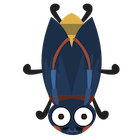
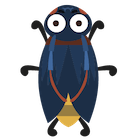
Add a play button, add bug's animation and add image

Changed region(s): [[0.1429, 0.0, 0.8571, 1.0]]

diff --git a/stage2.css b/stage2.css
@@ -1,55 +1,23 @@
 body{
     font-family: 'Open Sans', sans-serif;
 }
+.main{
+    width:960px;
+    height: 600px;
+    border: 1px solid rgb(177, 177, 177);
+    border-radius: 10px;
+    margin-left:17%;
+    margin-top:50px;
+    background-color: rgb(255, 255, 255);
+}
 a {
     text-decoration: none;
-}
-.big {
-    width: 180px;
-}
-
-.line{
-    position: relative;
-    display: block;
-    text-align: center;
-    margin-left: 0%;
-}
-
-
-.scene{
-    position: relative;
-    width: 960px;
-
-    min-height: 483px;
-    margin-bottom: 50px;
-    margin-left: 0%;
-}
-.speaker{
-    touch-action: none;
-    position: relative;
-    margin-right: 10px;
-    width: 35px;
-    height: 35px;
-    margin-bottom: -1px;
-    background-image: url(./Images/speaker.png);
-    background-size: 100%;
-    display: inline-block;
-    border-radius: 50%;
-    background-position-x: 0px;
-    background-position-y: 0px;
-}
-.string{
-    font-size: 50px;
-    margin-right: 5px;
-    margin:  -50px;
-}
-.uchiru_head card with_progress{
-    border-bottom: 1px solid rgba(150,150,150,0.29);
 }
 .uchiru_head {
     line-height: 49px;
     position: relative;
     padding: 0 20px;
+    border-bottom: 1px solid rgba(150,150,150,0.29);
 }
 .Back{
     width: 70px;
@@ -90,14 +58,18 @@ a {
     transition: left 200ms linear;
     -webkit-transition: left 200ms linear;
 }
-.main{
-    width:960px;
-    height: 600px;
-    border: 1px solid rgb(177, 177, 177);
-    border-radius: 10px;
-    margin-left:17%;
-    margin-top:50px;
-    background-color: rgb(255, 255, 255);
+.scene{
+    position: relative;
+    width: 960px;
+    min-height: 483px;
+    margin-bottom: 50px;
+    margin-left: 0%;
+}
+.line{
+    position: relative;
+    display: block;
+    text-align: center;
+    margin-left: 0%;
 }
 .bg-bug{
     width: 220px;
@@ -112,13 +84,18 @@ a {
 }
 .bug{
     width: 140px;
-    height: 140px;
     background-image: url('./Images/68.png');
-    position: relative;
+    position: absolute;
     z-index: 3;
-    left: 0px;
+    bottom: 0px;
+    left: 30px;
     display: inline-block;
-    transform: rotate(180deg);
+    animation-name: move;
+    animation-timing-function: linear;
+    animation-fill-mode: forwards;
+    animation-delay: 0s;
+    animation-iteration-count: 1;
+    animation-duration: 1.5s;
 }
 .question{
     position: absolute;
@@ -128,27 +105,25 @@ a {
     text-align: left;
     line-height: 40px;
 }
- .btn_next.btn_next_kind_link.btn_next_font_cr:not(.btn_next_case_uc) {
+.speaker{
+    touch-action: none;
+    position: relative;
+    margin-right: 10px;
+    width: 35px;
+    height: 35px;
+    margin-bottom: -1px;
+    background-image: url(./Images/speaker.png);
+    background-size: 100%;
+    display: inline-block;
+    border-radius: 50%;
+    background-position-x: 0px;
+    background-position-y: 0px;
+}
+.btn_next.btn_next_kind_link.btn_next_font_cr:not(.btn_next_case_uc) {
     height: 41px;
     padding: 2px;
     border-radius: 5px;
 }
- .button.btn_next {
-    position: relative;
-}
- .button {
-    
-    z-index: 0;
-    font-size: 30px;
-    vertical-align: top;
-    transition: box-shadow ease-out .3s;
-}
-.pointerhand {
-    cursor: pointer;
-}
-
-
-
 .btn_next.btn_next_kind_link.btn_next_font_cr:not(.btn_next_case_uc) .btn_next__placeholder,  .btn_next.btn_next_kind_link.btn_next_font_cr:not(.btn_next_case_uc) .btn_next__text {
     display: block;
     white-space: nowrap;
@@ -157,43 +132,28 @@ a {
     -webkit-font-smoothing: antialiased;
     padding: 7px 0 6px;
 }
+.button.btn_next {
+    position: relative;
+}
 .btn_next.btn_next_kind_link.btn_next_font_cr:not(.btn_next_case_uc) .btn_next__placeholder {
     position: relative;
     margin-left: 1px;
     margin-right: 38px;
 }
- 
- .button {
-    z-index: 0;
-    vertical-align: top;
-    transition: box-shadow ease-out .3s;
-}
-
-
-
- .btn_next.btn_next_kind_link.btn_next_font_cr:not(.btn_next_case_uc) .btn_next__text {
+.btn_next.btn_next_kind_link.btn_next_font_cr:not(.btn_next_case_uc) .btn_next__text {
     display: block;
     white-space: nowrap;
     font-size: 24px;
     line-height: 28px;
     -webkit-font-smoothing: antialiased;
     padding: 7px 0 6px;
-}
- .btn_next.btn_next_kind_link.btn_next_font_cr:not(.btn_next_case_uc) .btn_next__text {
     position: absolute;
     left: 3px;
     top: 2px;
 }
- .btn_next.btn_next_kind_link.btn_next_color_blue .btn_next__text {
+.btn_next.btn_next_kind_link.btn_next_color_blue .btn_next__text {
     color: #6ec3e2;
 }
- .button {
-    z-index: 0;
-    vertical-align: top;
-    transition: box-shadow ease-out .3s;
-}
-
-
  .btn_next.btn_next_kind_link.btn_next_font_cr:not(.btn_next_case_uc) .btn_next__icon {
     display: block;
     position: absolute;
@@ -203,12 +163,13 @@ a {
     right: 2px;
 }
 .btn_next.btn_next_kind_link.btn_next_color_blue .btn_next__icon {
-    background-image: url("56.svg");
+    background-image: url("./Images/56.svg");
     background-repeat: no-repeat;
     background-position-x: 0px;
     background-position-y: 0px;
 }
- .button {
+.button {
+    
     z-index: 0;
     font-size: 30px;
     vertical-align: top;
@@ -216,4 +177,46 @@ a {
 }
 * {
     -webkit-tap-highlight-color: transparent;
+}
+.btn_play {
+    position: absolute;
+    z-index: 100;
+    top: 50%;
+    left: 50%;
+    width: 246px;
+    height: 246px;
+    margin: -130px 0 0 -130px;
+    border-radius: 200px;
+    background-color: rgba(184,0,161,.1);
+    border: 43px solid rgba(255,255,255,.75);
+    transition-property: all;
+    transition-duration: 0.2s;
+    transition-timing-function: linear;
+    transition-delay: 0s; 
+    cursor: pointer;
+}
+.play {
+    position: absolute;
+    top: 50%;
+    left: 50%;
+    width: 112px;
+    height: 113px;
+    background: url(13.png) no-repeat;
+    margin: -57px 0 0 -35px;
+    background-image: url(/Images/25.png);
+}
+.btn_play:hover {
+    width: 256px;
+    height: 256px;
+    margin-top: -130px;
+    margin-left: -130px;
+}
+@keyframes move{
+    from {
+        height: 0px;
+    }
+    
+    to {
+        height: 140px; 
+    }
 }

diff --git a/stage2.html b/stage2.html
@@ -15,47 +15,53 @@
     style="background-image: url('https://i.pinimg.com/originals/fc/6e/19/fc6e19f0d91d5f344ce9a0dd6688b1dd.jpg') ; ">
     <div class="main">
         <div class="uchiru_head card with_progress">
-            <a class="Back" href="https://google.com">
+            <a class="Back" href="index.html">
                 <h4 class="BackH4">Back</h4>
             </a>
-            <div class="uchiru-head__right-group">
-            </div>
+            <!--<div class="uchiru-head__right-group">
+            </div>-->
             <div class="beads-wrapper">
-                <div id="progress">
-                    <div class="inner_progress">
-                        <i class="az_ball_0" id="bead0" style="left: 4px;"></i>
-                        <i class="az_ball_1" id="bead1" style="left: 28px;"></i>
-                        <i class="az_ball_2" id="bead2" style="left: 52px;"></i>
-                        <i class="az_ball_3" id="bead3" style="left: 76px;"></i>
-                        <i class="az_ball_4" id="bead4" style="left: 100px;"></i>
-                        <i class="az_ball_5" id="bead5" style="left: 124px;"></i>
-                    </div>
+                <!--<div id="progress">-->
+                <div class="inner_progress">
+                    <i class="az_ball_0" id="bead0" style="left: 4px;"></i>
+                    <i class="az_ball_1" id="bead1" style="left: 28px;"></i>
+                    <i class="az_ball_2" id="bead2" style="left: 52px;"></i>
+                    <i class="az_ball_3" id="bead3" style="left: 76px;"></i>
+                    <i class="az_ball_4" id="bead4" style="left: 100px;"></i>
+                    <i class="az_ball_5" id="bead5" style="left: 124px;"></i>
                 </div>
+                <!--</div>-->
             </div>
         </div>
         <div class="scene">
             <div class="line" style="margin-top: 10px; width: 960px; height: 500px;">
                 <div class="bg bg-bug">
-                    <div class="bug" style="top: 400px;"></div>
+                    <div class="bug" id="bug"></div>
                 </div>
 
                 <div class="question with-sound" style="left: 420px; display: block;">
                     <span class="speaker"></span>
                     <span>Which way is the bug going?</span>
                     <div style="text-align:center; padding-top: 40px;">
-                        <div class="button btn_next btn_next_kind_link btn_next_font_cr btn_next_color_blue pointerhand clickable" style="display: inline-block"; id="sprite_1">
+                        <div class="button btn_next btn_next_kind_link btn_next_font_cr btn_next_color_blue pointerhand clickable"
+                            style="display: inline-block" ; id="sprite_1">
                             <div class="button btn_next__placeholder" style="visibility: hidden;">Next</div>
                             <div class="button btn_next__text">Next</div>
                             <div class="button btn_next__icon"></div>
+                        </div>
+                    </div>
+
+                </div>
+                <div class="btn_play">
+                    <div class="play">
+
                     </div>
                 </div>
             </div>
-            
         </div>
-    </div>
 
     </div>
-    <script src="stage3.js"> </script>
+    <script src="stage2.js"> </script>
 </body>
 
 </html>

diff --git a/index.html b/index.html
@@ -19,8 +19,10 @@
                     <p class="content"><b>Move Objects Up or Down Part 1</b></p>
                 </div>
                 <div class="col-4">
-                    <img src="./images/Identify the direction - up or down.png" class="img">
-                    <p class="content"><b>Identify the direction - up or down</b></p>
+                    <a href="stage2.html">
+                        <img src="./images/Identify the direction - up or down.png" class="img">
+                        <p class="content" href="stage2.html"><b>Identify the direction - up or down</b></p>
+                    </a>
 
                 </div>
                 <div class="col-4">
